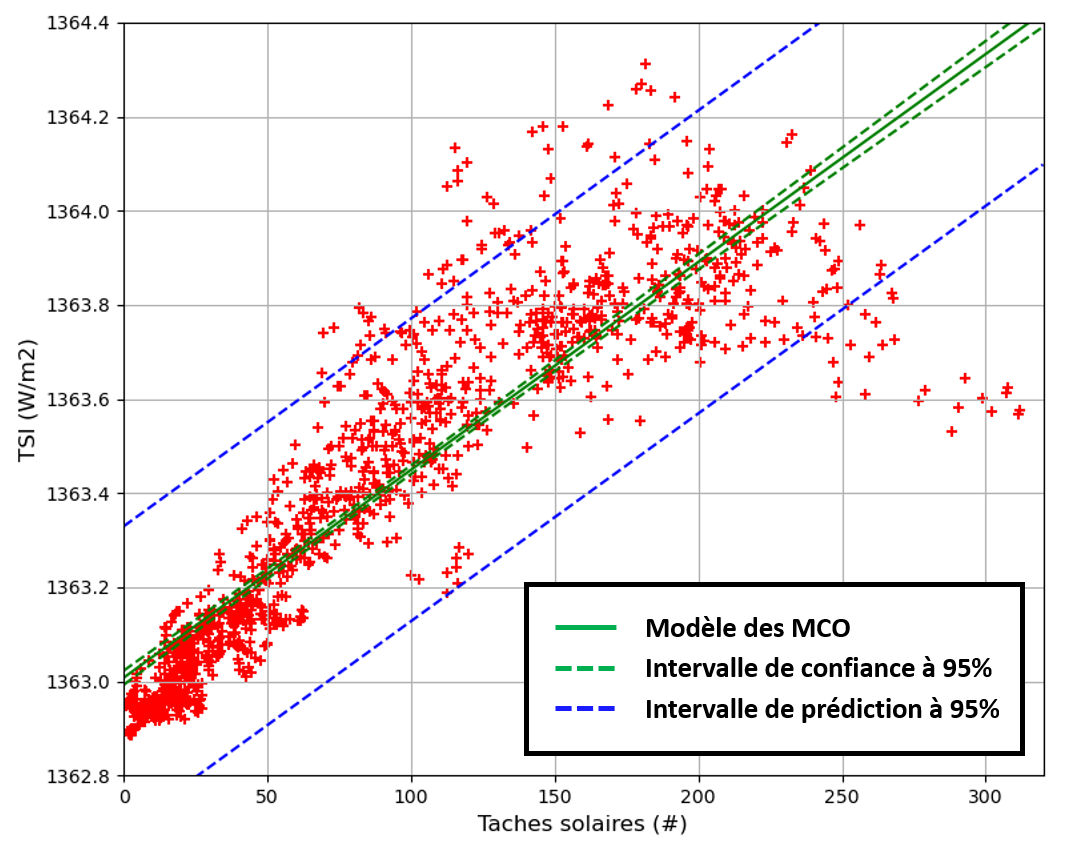
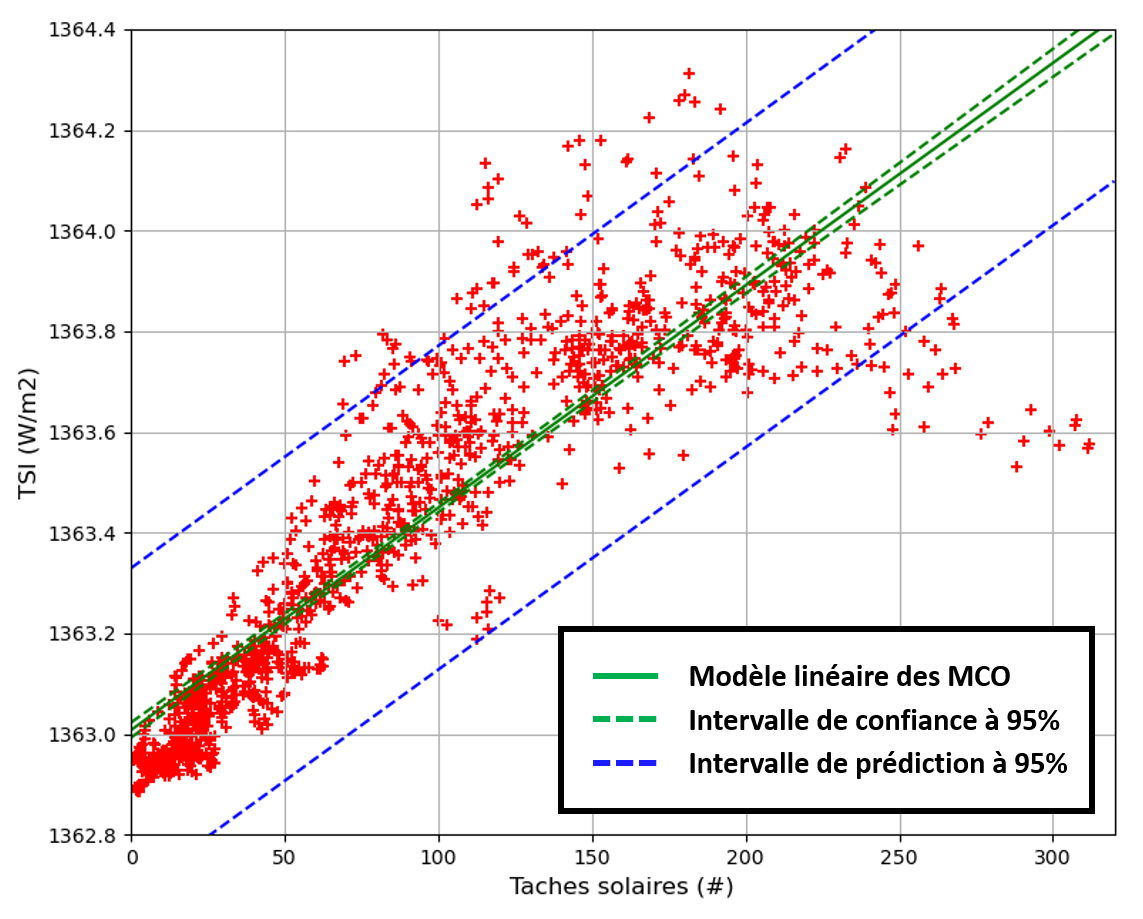
-Progress on Chapter 3.

diff --git a/docs/Chap3_Regression.md b/docs/Chap3_Regression.md
@@ -720,11 +720,10 @@ Si les hypothèses associées sont bien respectées, les MCO permettent en théo
 Dans la réalité, il est compliqué d'avoir ces hypothèses exactement vraies.
 D'où le fait que l'on applique ici une stratégie de séparation entre ensemble d'entrainement et de test (80% / 20%), afin de **vérifier les performances en généralisation**.
 
-On détermine notre modèle de régression linéaire `mco` par les MCO :
+On détermine notre modèle de régression linéaire `mco` par les MCO en utilisant la bibliothèque Scipy :
 
 ~~~
 from scipy.stats import linregress
-
 mco = linregress(x_train,y_train)
 ~~~
 
@@ -749,22 +748,23 @@ s = np.sqrt(np.sum(res_train**2)/(len(x_train)-2))
 Ensuite, il nous faut calculer $sc_{xx}$ :
 
 ~~~
-x_mean = np.mean(x_train)
+x_mean_train = np.mean(x_train)
 
-sc_xx = np.sum((x_train-x_mean)**2)
+sc_xx_train = np.sum((x_train-x_mean_train)**2)
 ~~~
 
 Nous pouvons alors en déduire l'estimation de l'écart-type sur la moyenne conditionnelle de $y$, et l'estimation de l'écart-type sur les prédictions :
 
 ~~~
-s_y_conf = s*np.sqrt((1/len(x_train))+(((x_mco-x_mean)**2)/sc_xx))
-s_y_pred = s*np.sqrt(1+(1/len(x_train))+(((x_mco-x_mean)**2)/sc_xx))
+s_y_conf = s*np.sqrt((1/len(x_train))+(((x_mco-x_mean_train)**2)/sc_xx_train))
+s_y_pred = s*np.sqrt(1+(1/len(x_train))+(((x_mco-x_mean_train)**2)/sc_xx_train))
 ~~~
 
 Nous avons à présent tous les élements pour calculer les intervalles de confiance et de prédiction à 95% pour chaque nombre de tâches solaires entre 0 et 320.
 Il suffit d'utiliser le t de Student adapté :
 
 ~~~
+from scipy.stats import t
 t_student = t.ppf(1-(0.05/2),len(x_train)-2)
 
 y_conf_inf = y_mco - (t_student*s_y_conf)
@@ -776,11 +776,141 @@ y_pred_sup = y_mco + (t_student*s_y_pred)
 
 On peut tracer le modèle linéaire obtenu par les MCO par-dessus le nuage de points des données d'entrainement, avec les intervalles de confiance et de prédiction :
 
-![Exemple de régression linéaire par les MCO](img/Chap3_exemple_mco_modele_simple.png)
+![Exemple de régression linéaire simple par les MCO](img/Chap3_exemple_mco_modele_simple.png)
 
 Pour évaluer les performances du modèle en entrainement, on peut simplement calculer le $R^2$ sur les données d'entrainement :
 
+~~~
+print(mco.rvalue**2)
+~~~
 
+On obtient $R^2 \approx 0.792$, ce qui veut dire que 79.2% des écarts sont expliqués par le modèle.
+Un score relativement bon, mais pas excellent puisque plus de 1/5 des écarts restent inexpliqués par le modèle.
+
+Pour évaluer les performances du modèle en test, on a pas d'autre choix que de calculer le $R^2$ sur les données de test "à la main" :
+
+~~~
+y_mean_test = np.mean(y_test)
+
+sct_test = np.sum((y_test-y_mean_test)**2)
+scr_test = np.sum((y_test-(mco.intercept+mco.slope*x_test))**2)
+
+r2_test = 1-(scr_test/sct_test)
+
+print(r2_test)
+~~~
+
+On obtient alors $R^2 \approx 0.795$ soit un score très similaire aux performances en entrainement.
+Des performances similaires peuvent donc être attendues en généralisation.
+
+Pour valider ou invalider notre modèle, et comprendre d'où viennent ses limites en terme de performances, affichons les résidus en fonction de la variable d'entrée :
+
+![Exemple de résidus obtenus par régression linéaire simple](img/Chap3_exemple_mco_simple_residus.png)
+
+On observe qu'il y a clairement une tendance des résidus en fonction de la variable d'entrée.
+Les hypothèses sur les résidus ne sont donc pas respectées, ce qui peut expliquer les performances modestes du modèle.
+
+Pour d'obtenir un modèle plus performant, nous proposons donc d'essayer une régression polynomiale de degré 2.
+
+Cette régression polynomiale de degré 2 va revenir à faire une régression linéaire multiple, avec pour variables d'entrée le nombre de tâches solaires et son carré.
+
+Cette fois-ci, on va donc rassembler les variables d'entrée au sein d'une matrice :
+
+~~~
+x_train = np.ones((len(df_train),3))
+x_train[:,1] =  df_train['sunspots'].to_numpy()
+x_train[:,2] = x_train[:,1]**2
+
+x_test = np.ones((len(df_test),3))
+x_test[:,1] =  df_test['sunspots'].to_numpy()
+x_test[:,2] = x_test[:,1]**2
+~~~
+
+La 1ère colonne correspond à l'ordonnée à l'origine et ne contient que des 1, la 2nde colonne correspond au nombre de tâches solaires, la 3ème au carré du nombre de tâches solaires.
+La variable de sortie reste inchangée par rapport à la régression linéaire simple.
+
+On détermine notre modèle de régression linéaire multiple `mco` par les MCO en utilisant la bibliothèque Scikit-Learn :
+
+~~~
+from sklearn.linear_model import LinearRegression 
+mco = LinearRegression()
+
+mco.fit(x_train[:,1:],y_train)
+~~~
+
+**Attention**, la méthode `fit` des objets `LinearRegression` Scikit-Learn ne prend pas en entrée la 1ère colonne de la matrice des variables d'entrée (correspondant à l'ordonnée à l'origine) !
+Cependant, nous aurons bien besoin de la matrice complète pour calculer les intervalles de confiance et de prédiction.
+
+Voici comment estimer les TSI correspondant à 321 de nombres de tâches solaires entre 0 et 320 :
+
+~~~
+x_mco = np.ones((100,3))
+x_mco[:,1] = np.linspace(0,320,100)
+x_mco[:,2] = np.linspace(0,320,100)**2
+
+y_mco = mco.predict(x_mco[:,1:])
+~~~
+
+Comme pour `fit`, la méthode `predict` ne prend pas en entrée la 1ère colonne de la matrice des variables d'entrée.
+
+On calcule l'estimation de l'écart-type des résidus, en faisant attention au fait qu'il y a maintenant une variable d'entrée de plus :
+
+~~~
+res_train = y_train-mco.predict(x_train[:,1:])
+s = np.sqrt(np.sum(res_train**2)/(len(x_train)-3)) 
+~~~
+
+On peut alors estimer les écart-types sur la moyenne conditionnelle de $y$, et sur les prédictions.
+Ce calcul se fait en sélectionnant chaque ligne de la matrice `x_mco` crée précédemment, de manière itérative :
+
+~~~
+s_y_conf = np.zeros(len(x_mco))
+s_y_pred = np.zeros(len(x_mco))
+
+for idx in range(len(x_mco)):
+    
+    x_mco_idx = x_mco[idx,:]
+	
+    s_y_conf[idx] = s*np.sqrt(x_mco_idx@np.linalg.inv(x_train.T@x_train)@x_mco_idx.T)
+    s_y_pred[idx] = s*np.sqrt(1+x_mco_idx@np.linalg.inv(x_train.T@x_train)@x_mco_idx.T)
+~~~
+
+On peut à présent déterminer les intervalles de confiance et de prédiction de notre modèle linéaire multiple :
+
+~~~
+from scipy.stats import t
+t_student = t.ppf(1-(0.05/2),len(x_train)-3)
+
+conf_inf = y_mco - (t_student*s_y_conf)
+conf_sup = y_mco + (t_student*s_y_conf)
+
+pred_inf = y_mco - (t_student*s_y_pred)
+pred_sup = y_mco + (t_student*s_y_pred)
+~~~
+
+Il est maintenant possible d'afficher par dessus le nuage de points des données d'entrainement le modèle polynomial, ainsi que ses intervalles de confiance et de prédiction :
+
+![Exemple de régression linéaire multiple par les MCO](img/Chap3_exemple_mco_modele_multiple.png)
+
+Pour évaluer les performances du modèle en entrainement et en test, on calcule le $R^2$ :
+
+~~~
+print(mco.score(x_train[:,1:],y_train))
+~~~
+
+On obtient $R^2 \approx 0.896$ sur les données d'entrainement, ce qui veut dire que 89.6% des écarts sont expliqués par le modèle.
+Un très bon score ! Maintenant seul 1/10 des écarts restent inexpliqués par le modèle.
+
+En test, on obtient un score très similaire de $R^2 \approx 0.904$, ce qui laisse présager ce niveau de performance en généralisation.
+
+Pour valider ou invalider notre modèle, vérifions que les résidus en fonction de la variable d'entrée se comportent conformément à nos hypothèses :
+
+![Exemple de résidus obtenus par régression linéaire multiple](img/Chap3_exemple_mco_multiple_residus.png)
+
+Cette fois-ci, on n'observe aucune tendance claire se dégager des résidus en fonction de la variable d'entrée : ce qui est attendu.
+
+Par contre, on peut noter que l'écart-type des résidus a l'air de varier légèrement avec le nombre de tâches solaires, et l'hypothèse de normalité est assez difficile à confirmer.
+C'est pourquoi il faudrait en toute rigueur appliquer des tests statistiques de nos hypothèses.
 
 #### Remarques
 
